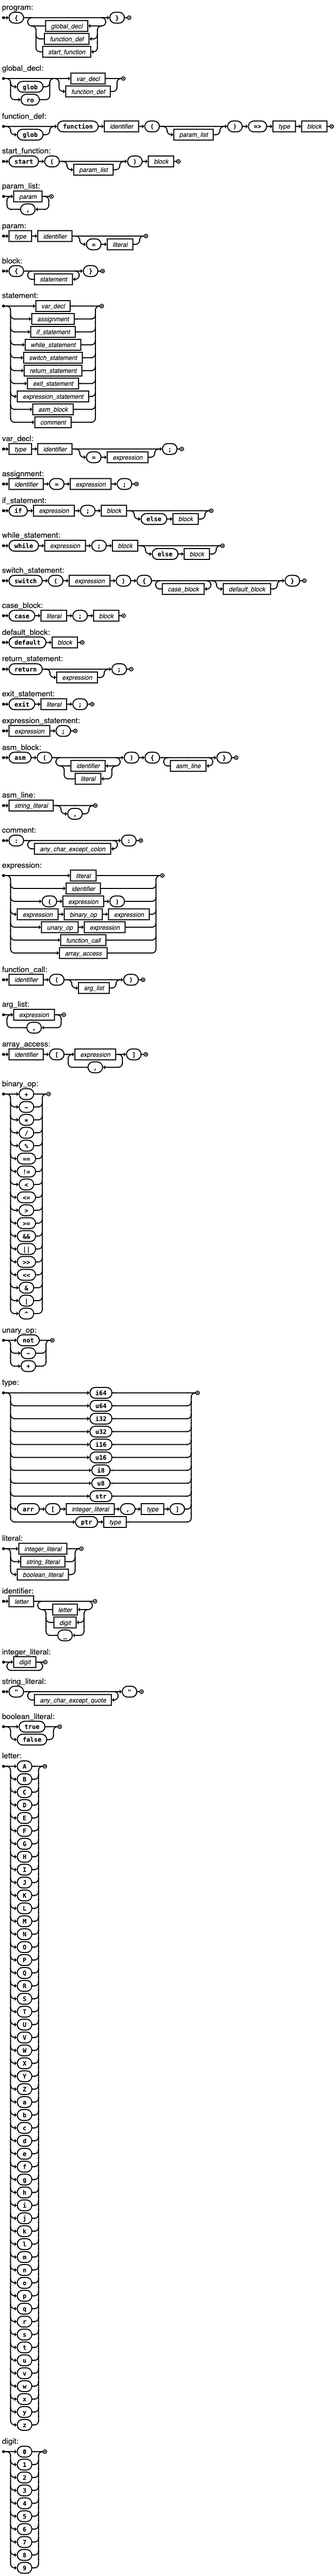
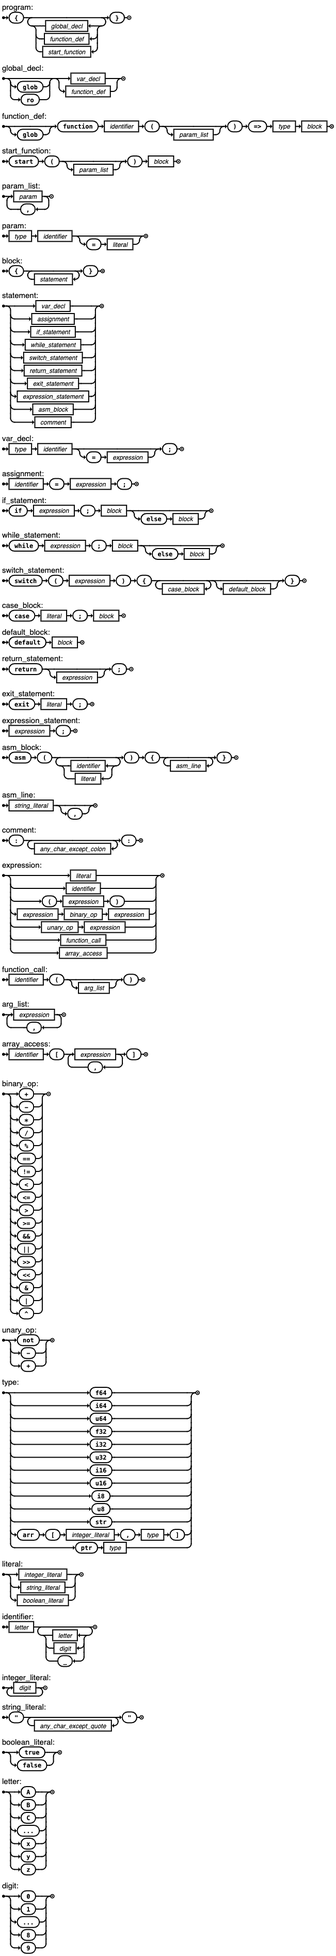
README update

diff --git a/src/ast/apl_parsers/README.md b/src/ast/apl_parsers/README.md
@@ -193,7 +193,7 @@ binary_op       = "+" | "-" | "*" | "/" | "%"
 
 unary_op        = "not" | "-" | "+" ;
 
-type            = "i64" | "u64" | "i32" | "u32" | "i16" | "u16" | "i8" | "u8"
+type            = "f64" | "i64" | "u64" | "f32" | "i32" | "u32" | "i16" | "u16" | "i8" | "u8"
                 | "str"
                 | "arr" , "[" , integer_literal , "," , type , "]"
                 | "ptr" , type ;
